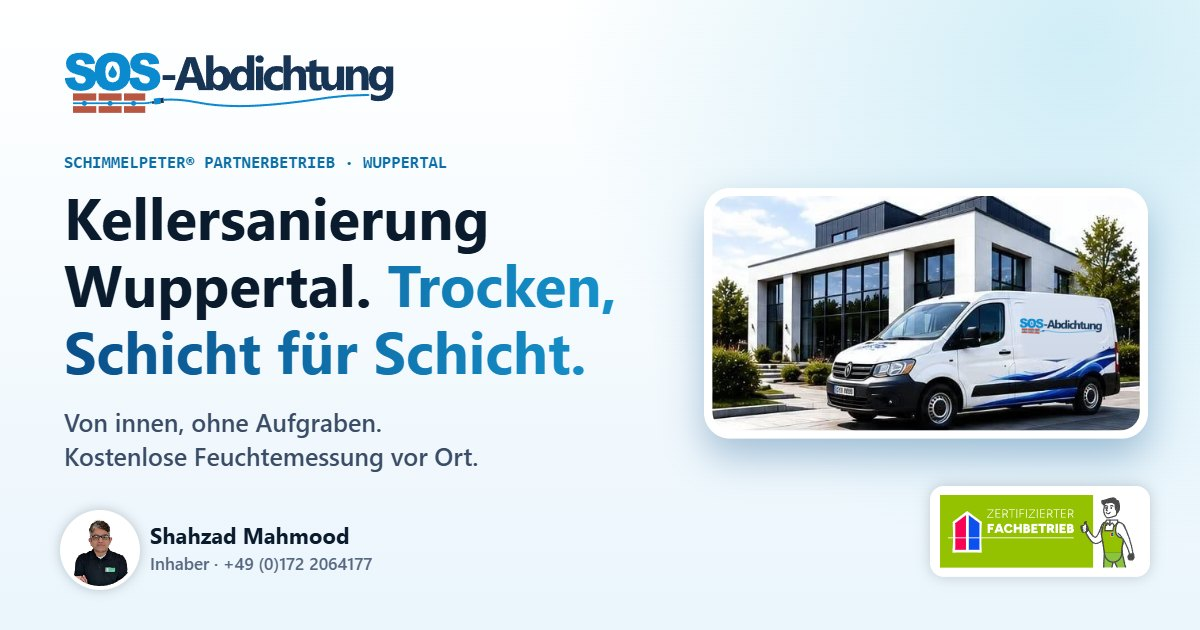
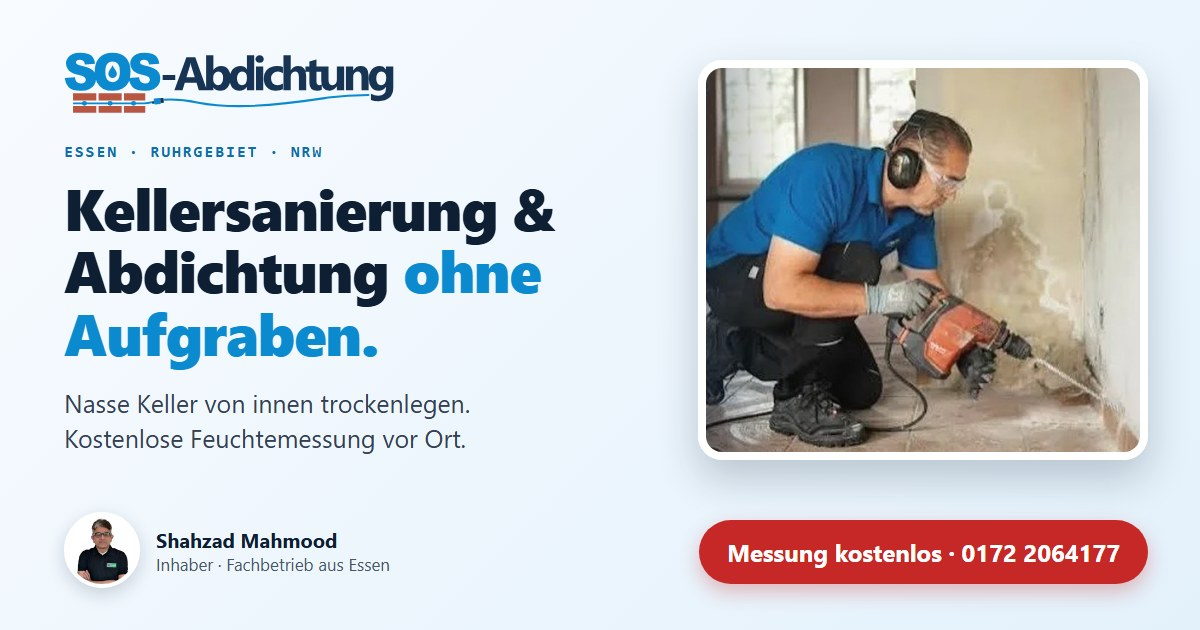
fix(seo): neutral share image (no "Kellersanierung Wuppertal" / SchimmelPeter on every page): real job photo, Essen · Ruhrgebiet · NRW, free measurement and phone (#102)

diff --git a/src/lib/site.ts b/src/lib/site.ts
@@ -13,7 +13,7 @@ export const OG_IMAGE = {
   url: "/og-image.jpg",
   width: 1200,
   height: 630,
-  alt: "sos-abdichtung: Kellersanierung Wuppertal, Haus mit nassem Keller im Schnitt",
+  alt: "sos-abdichtung: Kellersanierung & Abdichtung ohne Aufgraben, Inhaber Shahzad Mahmood bei der Bohrung für eine Horizontalsperre",
 };
 
 export const abs = (path: string) => `${SITE_URL}${path.startsWith("/") ? path : `/${path}`}`;
